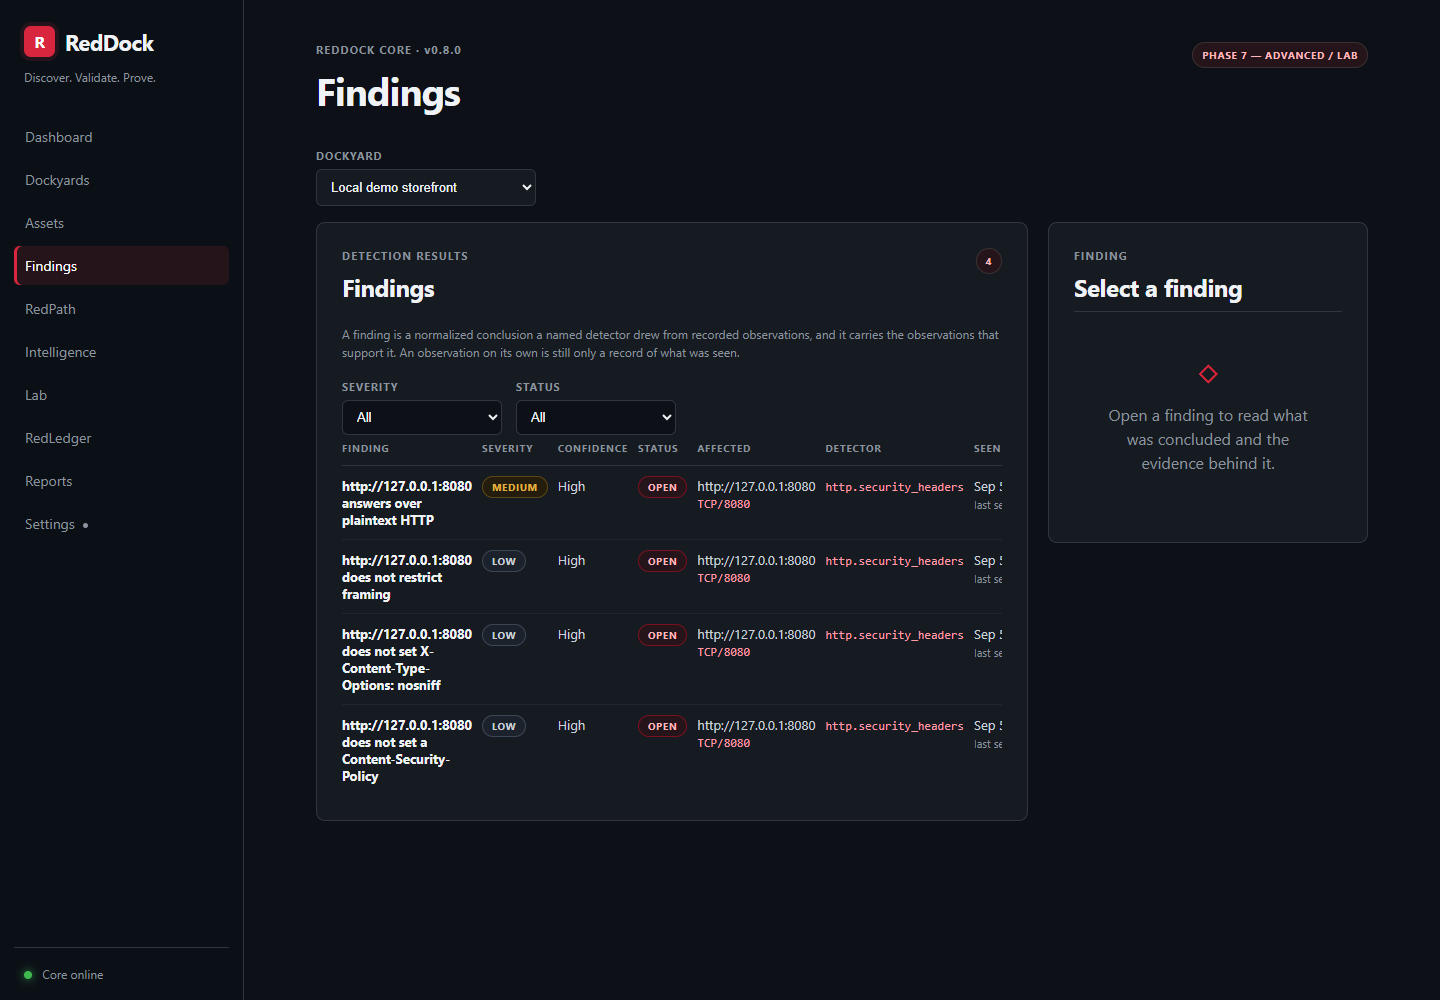
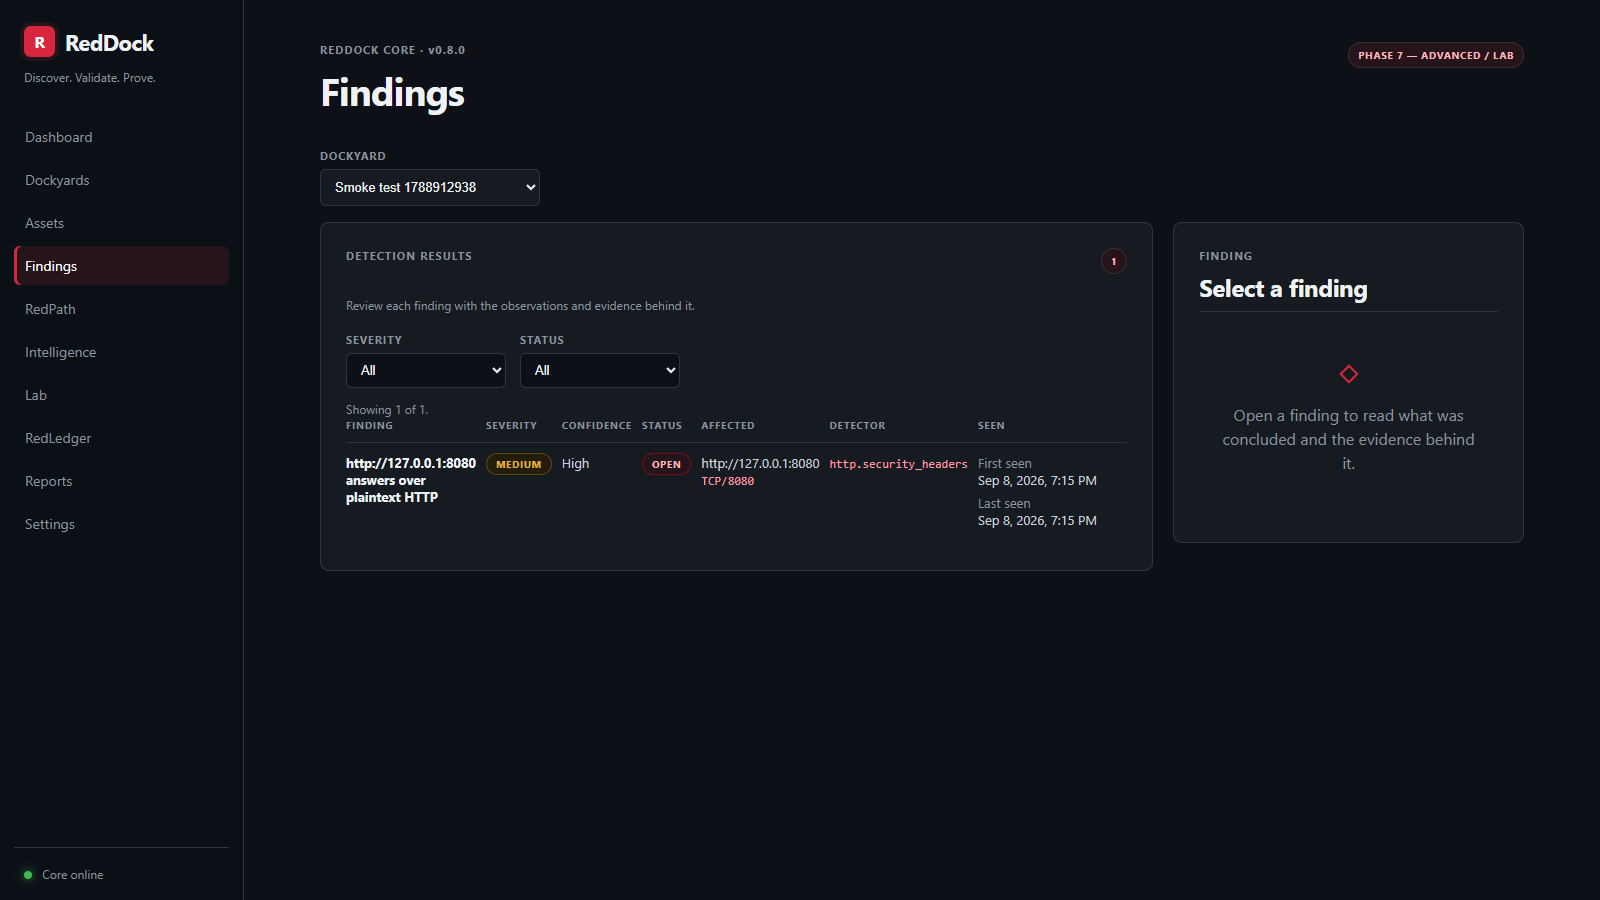
Document the Phase 8 usability checkpoint with live screenshots
Explain bookmarkable navigation, complete dashboard totals, finding pagination, safe Settings, and opt-in Swagger. Keep remaining Phase 8 work and the unauthenticated local-only boundary explicit.

diff --git a/README.md b/README.md
@@ -71,7 +71,7 @@ This is a human-directed, mixed-AI project using Claude Code and OpenAI Codex. J
 | Capability | Current implementation |
 | --- | --- |
 | Runtime | One Dockerized application that serves the UI and API on the same origin |
-| API explorer | OpenAPI 3.1 schema with interactive Swagger UI at `/docs` |
+| API explorer | Optional OpenAPI schema and Swagger UI, disabled by default |
 | Workspaces | Dockyards that own an explicit authorized scope |
 | Scope policy | DockGuard evaluates every target deterministically and fails closed |
 | Discovery | Nmap host and TCP service discovery, plus a single-request HTTP origin probe |
@@ -100,7 +100,9 @@ This is a human-directed, mixed-AI project using Claude Code and OpenAI Codex. J
 
 <div align="center">
 
-<a href="docs/screenshots/findings.png"><img src="docs/screenshots/findings.png" alt="RedDock findings view showing severity, confidence, status, the detector that produced a finding, and the hashed evidence behind it" width="900"></a>
+<a href="docs/screenshots/findings.png"><img src="docs/screenshots/findings.png" alt="RedDock findings list showing severity and status filters, complete counts, and readable first-seen and last-seen dates" width="900"></a>
+
+[Open a finding's detail view](docs/screenshots/finding-detail.png) to see its explanation and supporting evidence.
 
 <sub>Understand each issue: what was found, how serious it is, how confident the result is, and the evidence behind it.</sub>
 
@@ -142,9 +144,15 @@ This is a human-directed, mixed-AI project using Claude Code and OpenAI Codex. J
 
 <br><br>
 
+<a href="docs/screenshots/settings.png"><img src="docs/screenshots/settings.png" alt="Read-only RedDock Settings showing the installed version, local deployment mode, disabled lab gate, and optional AI configuration status" width="900"></a>
+
+<sub>Know what is running: inspect your version and deployment gates without exposing credentials.</sub>
+
+<br><br>
+
 <a href="docs/screenshots/swagger.png"><img src="docs/screenshots/swagger.png" alt="RedDock Swagger UI showing the interactive OpenAPI documentation for the reporting endpoints" width="900"></a>
 
-<sub>API explorer: the OpenAPI 3.1 contract is available through the built-in Swagger UI.</sub>
+<sub>API explorer: the built-in Swagger UI is available when the local developer flag is enabled.</sub>
 
 <br><br>
 
@@ -172,7 +180,7 @@ cd RedDock
 docker compose up --build
 ```
 
-Open [http://localhost:8080](http://localhost:8080). Process liveness is at [http://localhost:8080/api/health](http://localhost:8080/api/health), database-backed readiness is at [http://localhost:8080/api/ready](http://localhost:8080/api/ready), and interactive API documentation is at [http://localhost:8080/docs](http://localhost:8080/docs).
+Open [http://localhost:8080](http://localhost:8080). Process liveness is at [http://localhost:8080/api/health](http://localhost:8080/api/health), and database-backed readiness is at [http://localhost:8080/api/ready](http://localhost:8080/api/ready). Swagger and the OpenAPI download are disabled by default. Developers can [enable the local API explorer](docs/GETTING_STARTED.md#optional-api-explorer).
 
 Stop the application with `docker compose down`. In the default profile, the `reddock-data` volume holds both the SQLite database and retained evidence and survives normal container recreation; use `docker compose down -v` only when you deliberately want to erase local data.
 

diff --git a/docs/screenshots/README.md b/docs/screenshots/README.md
@@ -11,11 +11,13 @@ Click a view to open its full-size screenshot. These are examples, not a claim t
 | [Dashboard](dashboard.png) | See your workspaces and recent checking activity. |
 | [Workspace](workspace.png) | Define what is allowed before running a check. |
 | [Detection](detection.png) | See which rules turn recorded observations into findings. |
-| [Findings](findings.png) | Understand an issue and inspect its supporting evidence. |
+| [Findings](findings.png) | Filter issues and read complete first-seen and last-seen dates. |
+| [Finding detail](finding-detail.png) | Bookmark an issue and inspect its explanation and evidence. |
+| [Settings](settings.png) | Read the current version and deployment gates without exposing secrets. |
 | [RedPath](redpath.png) | Explore the relationships between assets and findings. |
 | [Reporting](reporting.png) | Prepare a management summary and technical handoff. |
 | [Readable manifest](manifest-view.png) | Browse the evidence files without reading raw JSON. |
-| [Swagger API explorer](swagger.png) | Let technical users inspect and interact with the API. |
+| [Swagger API explorer](swagger.png) | Inspect and interact with the API when explicitly enabled locally. |
 | [Lab controls](lab-mode.png) | Inspect separate authorization for limited lab capabilities. |
 | [Detector provenance](plugin-provenance.png) | Identify where an optional custom detection rule came from. |
 
@@ -31,3 +33,10 @@ plugin capture because the default package intentionally loads built-in
 detectors only.
 
 The README intentionally does not present a mockup as a product screenshot.
+
+The September 8 Phase 8 review checkpoint replaces `dashboard.png` and
+`findings.png` and adds `finding-detail.png` and `settings.png`. These captures
+come from the production Docker build on `codex/phase8-review-fixes`, with
+throwaway smoke-test data and no host-directory mounts. Settings shows the
+default disabled lab gate and no configured AI provider. The other gallery
+images retain the earlier provenance above.

diff --git a/docs/GETTING_STARTED.md b/docs/GETTING_STARTED.md
@@ -69,6 +69,37 @@ Your default local database and evidence stay in Docker's named data volume. To 
 
 Do not add `-v` to the shutdown command unless you intend to delete that stored data. Docker volume cleanup can also delete it. Persistent storage is not a backup; do not make this evaluation setup the only copy of important assessment evidence.
 
+## Finding your way around
+
+Each page has its own browser address. Bookmark a Dockyard tab or a finding to
+return to it after a refresh. Browser Back and Forward work, and the RedDock logo
+returns to the dashboard. Assets, Findings, and RedLedger remember the Dockyard
+in the address, so switching pages keeps the same workspace.
+
+The dashboard counts all matching records, not just the first page. Findings
+shows how many results are visible and offers Previous and Next buttons when
+there are more than 100. Settings is a read-only summary of the version, local
+deployment mode, lab gate, and whether AI is configured. It does not show keys
+or passwords and cannot change those settings.
+
+## Optional API explorer
+
+You do not need Swagger to use RedDock. Developers can enable it by adding this
+line to a local, untracked `.env` file beside `compose.yaml`:
+
+```text
+REDDOCK_API_DOCS_ENABLED=true
+```
+
+Run `docker compose up -d --build` again, then open
+[Swagger](http://localhost:8080/docs). The schema is at `/openapi.json` and ReDoc
+is at `/redoc`. To disable them, remove the line or set it to `false`, then run
+the same Compose command again. They return 404 when disabled.
+
+Swagger can call the same actions as the app, including starting authorized
+discovery. This switch is not authentication. Keep the supported Compose
+loopback bind; never publish this local-mode service to your network.
+
 ## Do I need AI?
 
 No. Start with the normal package above. Discovery, findings, validation, RedPath, and reporting work without an LLM (an AI language model).

diff --git a/ROADMAP.md b/ROADMAP.md
@@ -61,6 +61,12 @@ sign-in, SSO, and shared-user access are not available yet.
 
 ### Available now
 
+- **A more usable workspace:** bookmarkable page, tab, and finding addresses;
+  browser Back and Forward; full dashboard counts; paginated findings with
+  readable dates; and read-only Settings. Tabs load their own data and poll
+  only while visible discovery or validation work is running.
+- **An opt-in API explorer:** Swagger and the schema are off by default, with
+  an explicit local developer switch and the same loopback-only boundary.
 - **A database choice:** keep the simple default setup or use the private
   [PostgreSQL package](docs/POSTGRESQL.md). A readiness check confirms the app
   can reach its database, not just that its process is running.
@@ -86,11 +92,11 @@ service.** Unsupported deployment modes remain blocked.
 
 ### Still needed before release
 
-- **Complete result lists:** pagination and accurate counts beyond 100 rows.
+- **Complete remaining result lists:** extend pagination beyond Findings to
+  the other bounded inventories and run histories. Dashboard counts are complete;
+  Assets and RedLedger disclose their list limits.
 - **More accurate inventory updates:** correctly handle previously open ports
   reported closed, without assuming an unscanned port is closed.
-- **Smoother navigation:** prevent old workspace results appearing after a
-  switch, and restore the discovery button after connection failures.
 - **Working team access:** integrate sign-in, SSO, permissions, and administration.
 - **Operational readiness:** complete deployment, backup and restore, scaling,
   release automation, and ARM64 verification across the supported product.

diff --git a/backend/README.md b/backend/README.md
@@ -30,6 +30,20 @@ returns value objects, with no session, socket, subprocess or operator input in
 reach. `tests/test_detection_contract.py` reads the detection package and fails
 if that stops being true.
 
+The local API explorer is opt-in: `REDDOCK_API_DOCS_ENABLED=true` enables `/docs`,
+`/redoc`, and `/openapi.json` at process startup. The default, including the
+production image, is off. See the [operator instructions](../docs/GETTING_STARTED.md#optional-api-explorer).
+Disabling documentation does not authenticate the API or make network exposure safe.
+
+`GET /api/dashboard` returns complete Dockyard, asset, discovery-run, and open-finding
+counts for the current organization, plus at most five recent Dockyards and eight
+recent discovery runs. `GET /api/settings` returns only public configuration facts.
+Assets, discoveries, evidence, and findings lists retain their array bodies and
+100-row default limit. Their documented `X-Total-Count` response header counts
+matching rows before limiting; findings also accepts `offset` for pagination,
+with the same filters applied to the count and list. Counts describe the current
+database state, not an immutable report snapshot.
+
 Validation is not a general-purpose testing interface. It can recheck only an
 eligible open HTTP security-header finding at its recorded origin. Requesting
 one records intent without contacting a target; a separate approval note

diff --git a/CHANGELOG.md b/CHANGELOG.md
@@ -6,6 +6,17 @@ All notable changes to RedDock are documented here.
 
 ### Added
 
+- Bookmarkable page, Dockyard-tab, and finding URLs, browser history navigation,
+  and Dockyard context shared by Assets, Findings, and RedLedger.
+- Read-only Settings showing public configuration facts without credentials.
+- A bounded dashboard summary with complete counts, documented list-total
+  headers, and finding pagination without changing the 100-row default.
+- Full finding dates, a single top-level Findings heading, shorter list hints,
+  and tab-specific fetching with polling only for in-flight work.
+- An explicit `REDDOCK_API_DOCS_ENABLED` switch, off by default, with tests for
+  Swagger, OpenAPI, SPA deep links, bundle paths, and rejected-Host headers.
+  The existing strict application CSP remains in place; its documentation
+  exception applies only to successfully served, explicitly enabled docs.
 - A plain-English first-run walkthrough, documentation reading paths, benefit-led
   product overview, and CISO/recruiter evaluation guide, with explicit local-only
   limits and a clickable screenshot tour.
